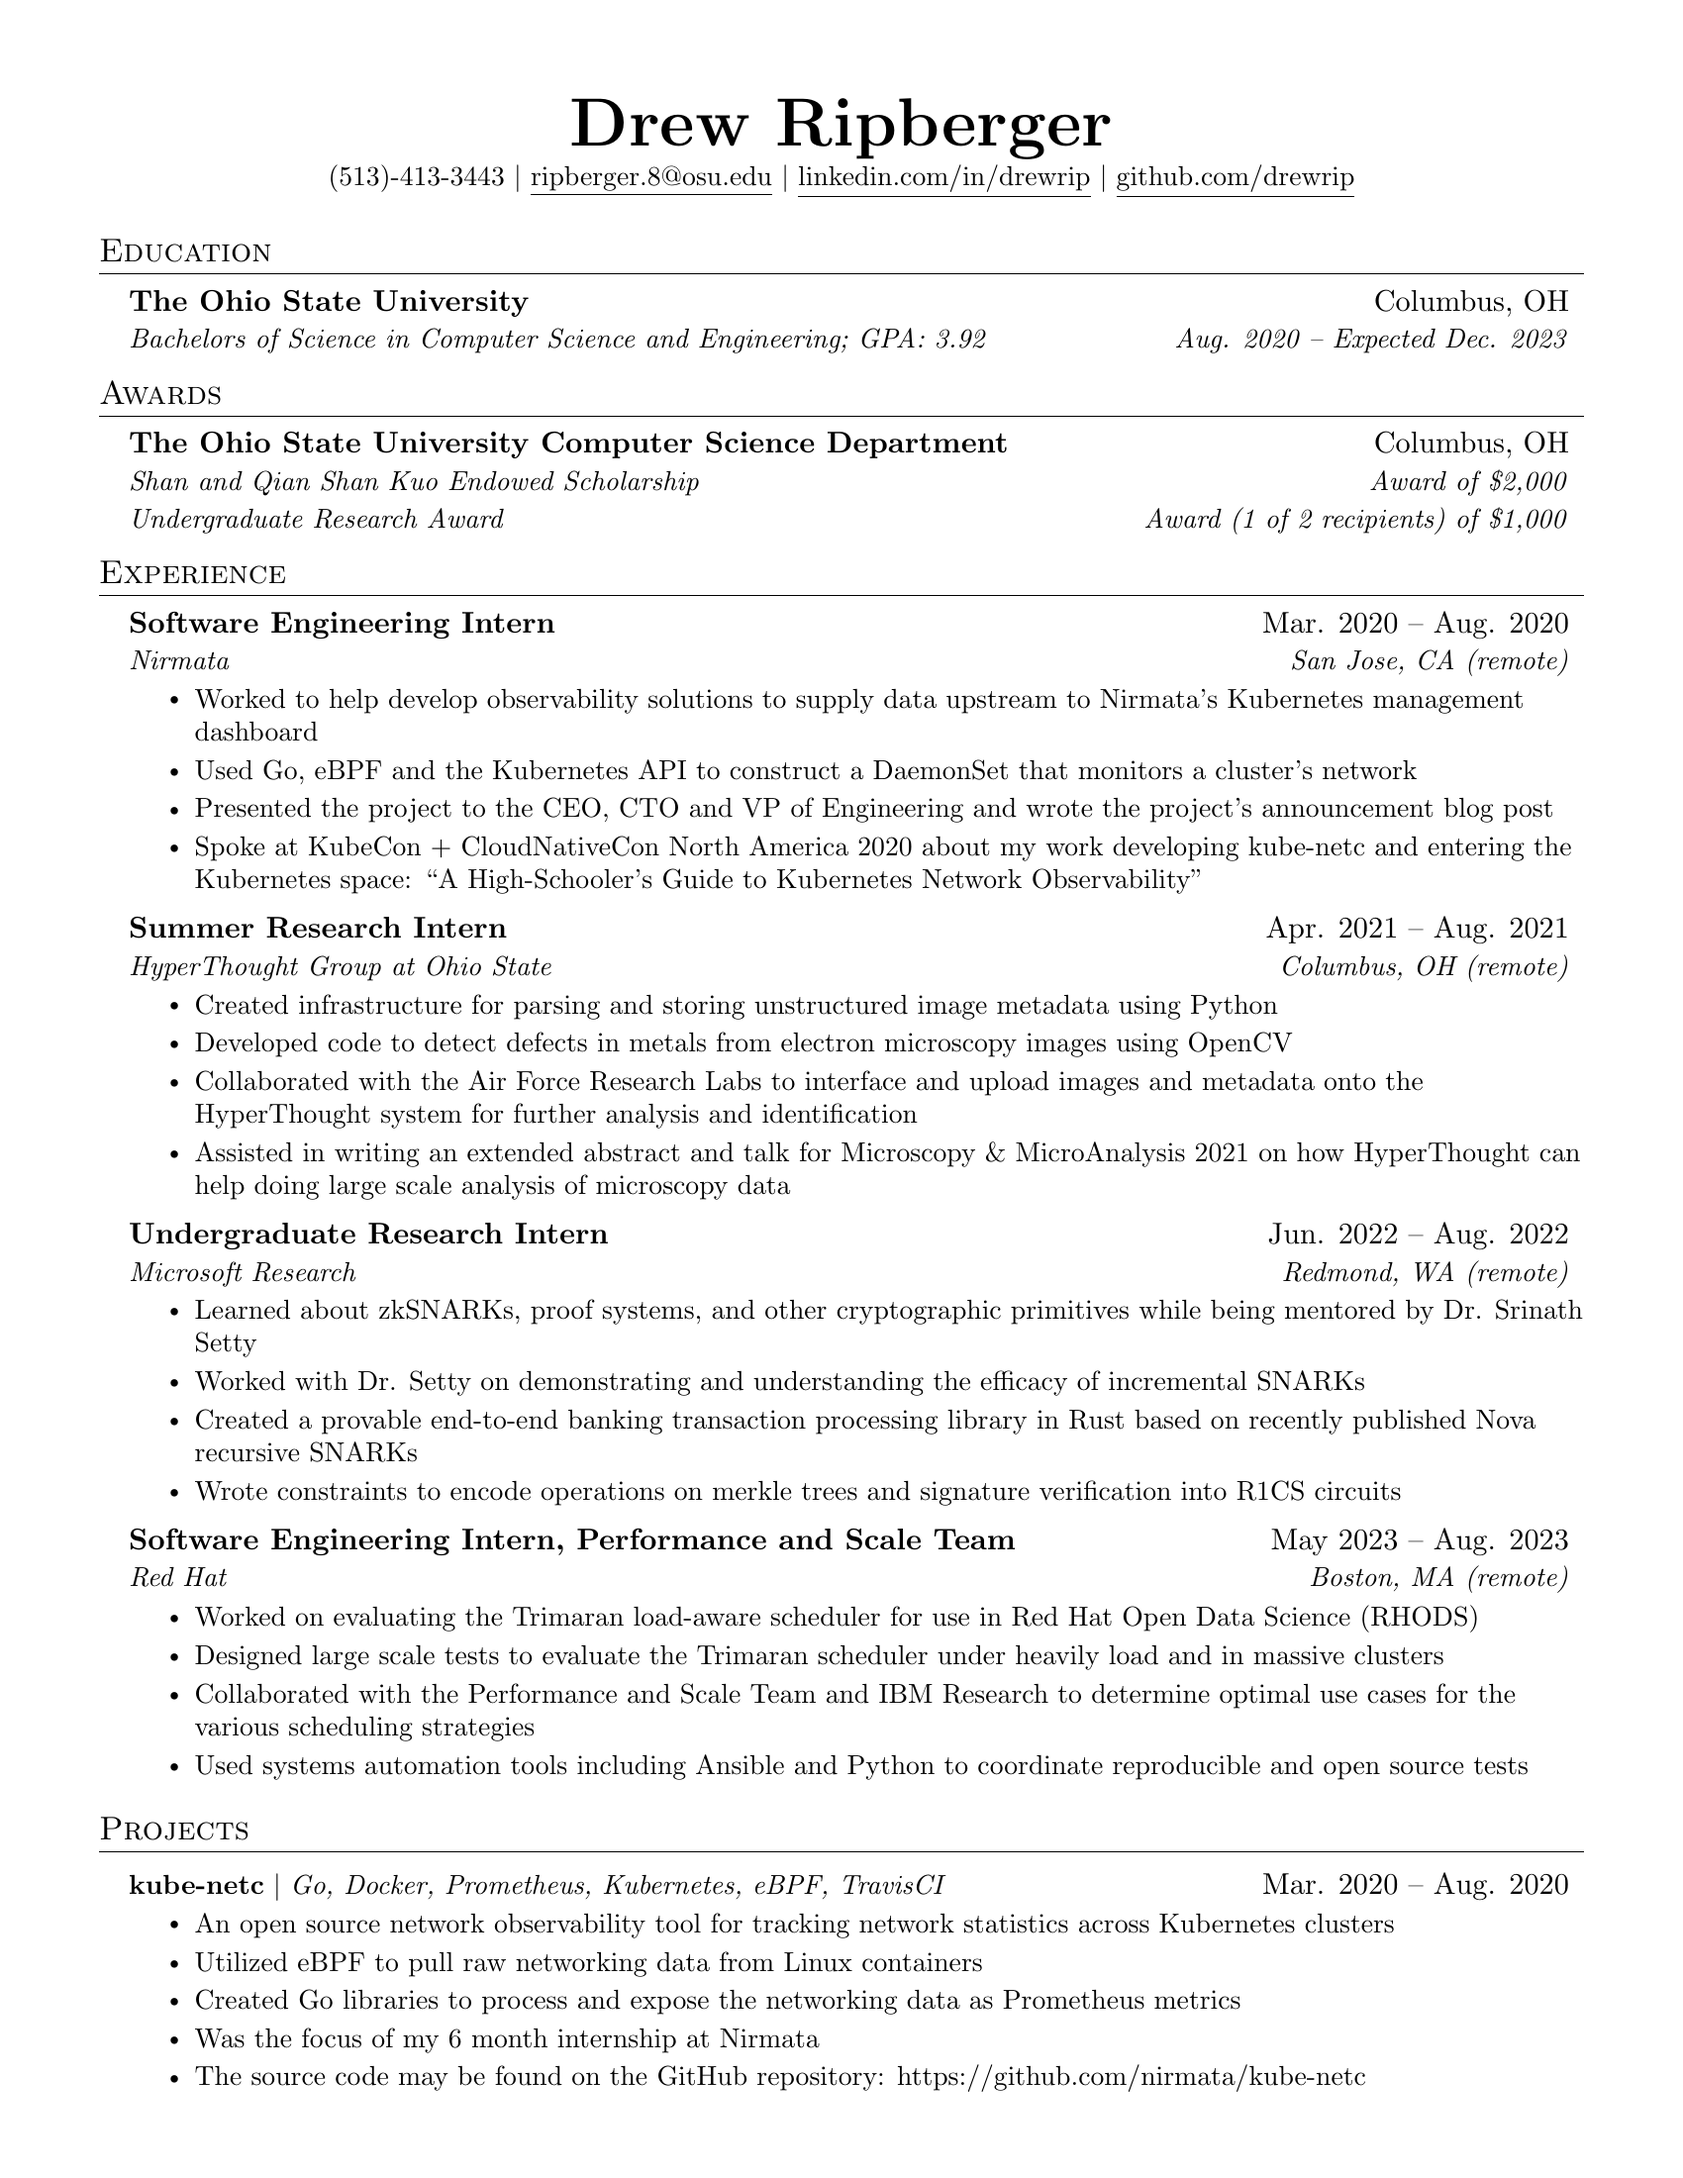
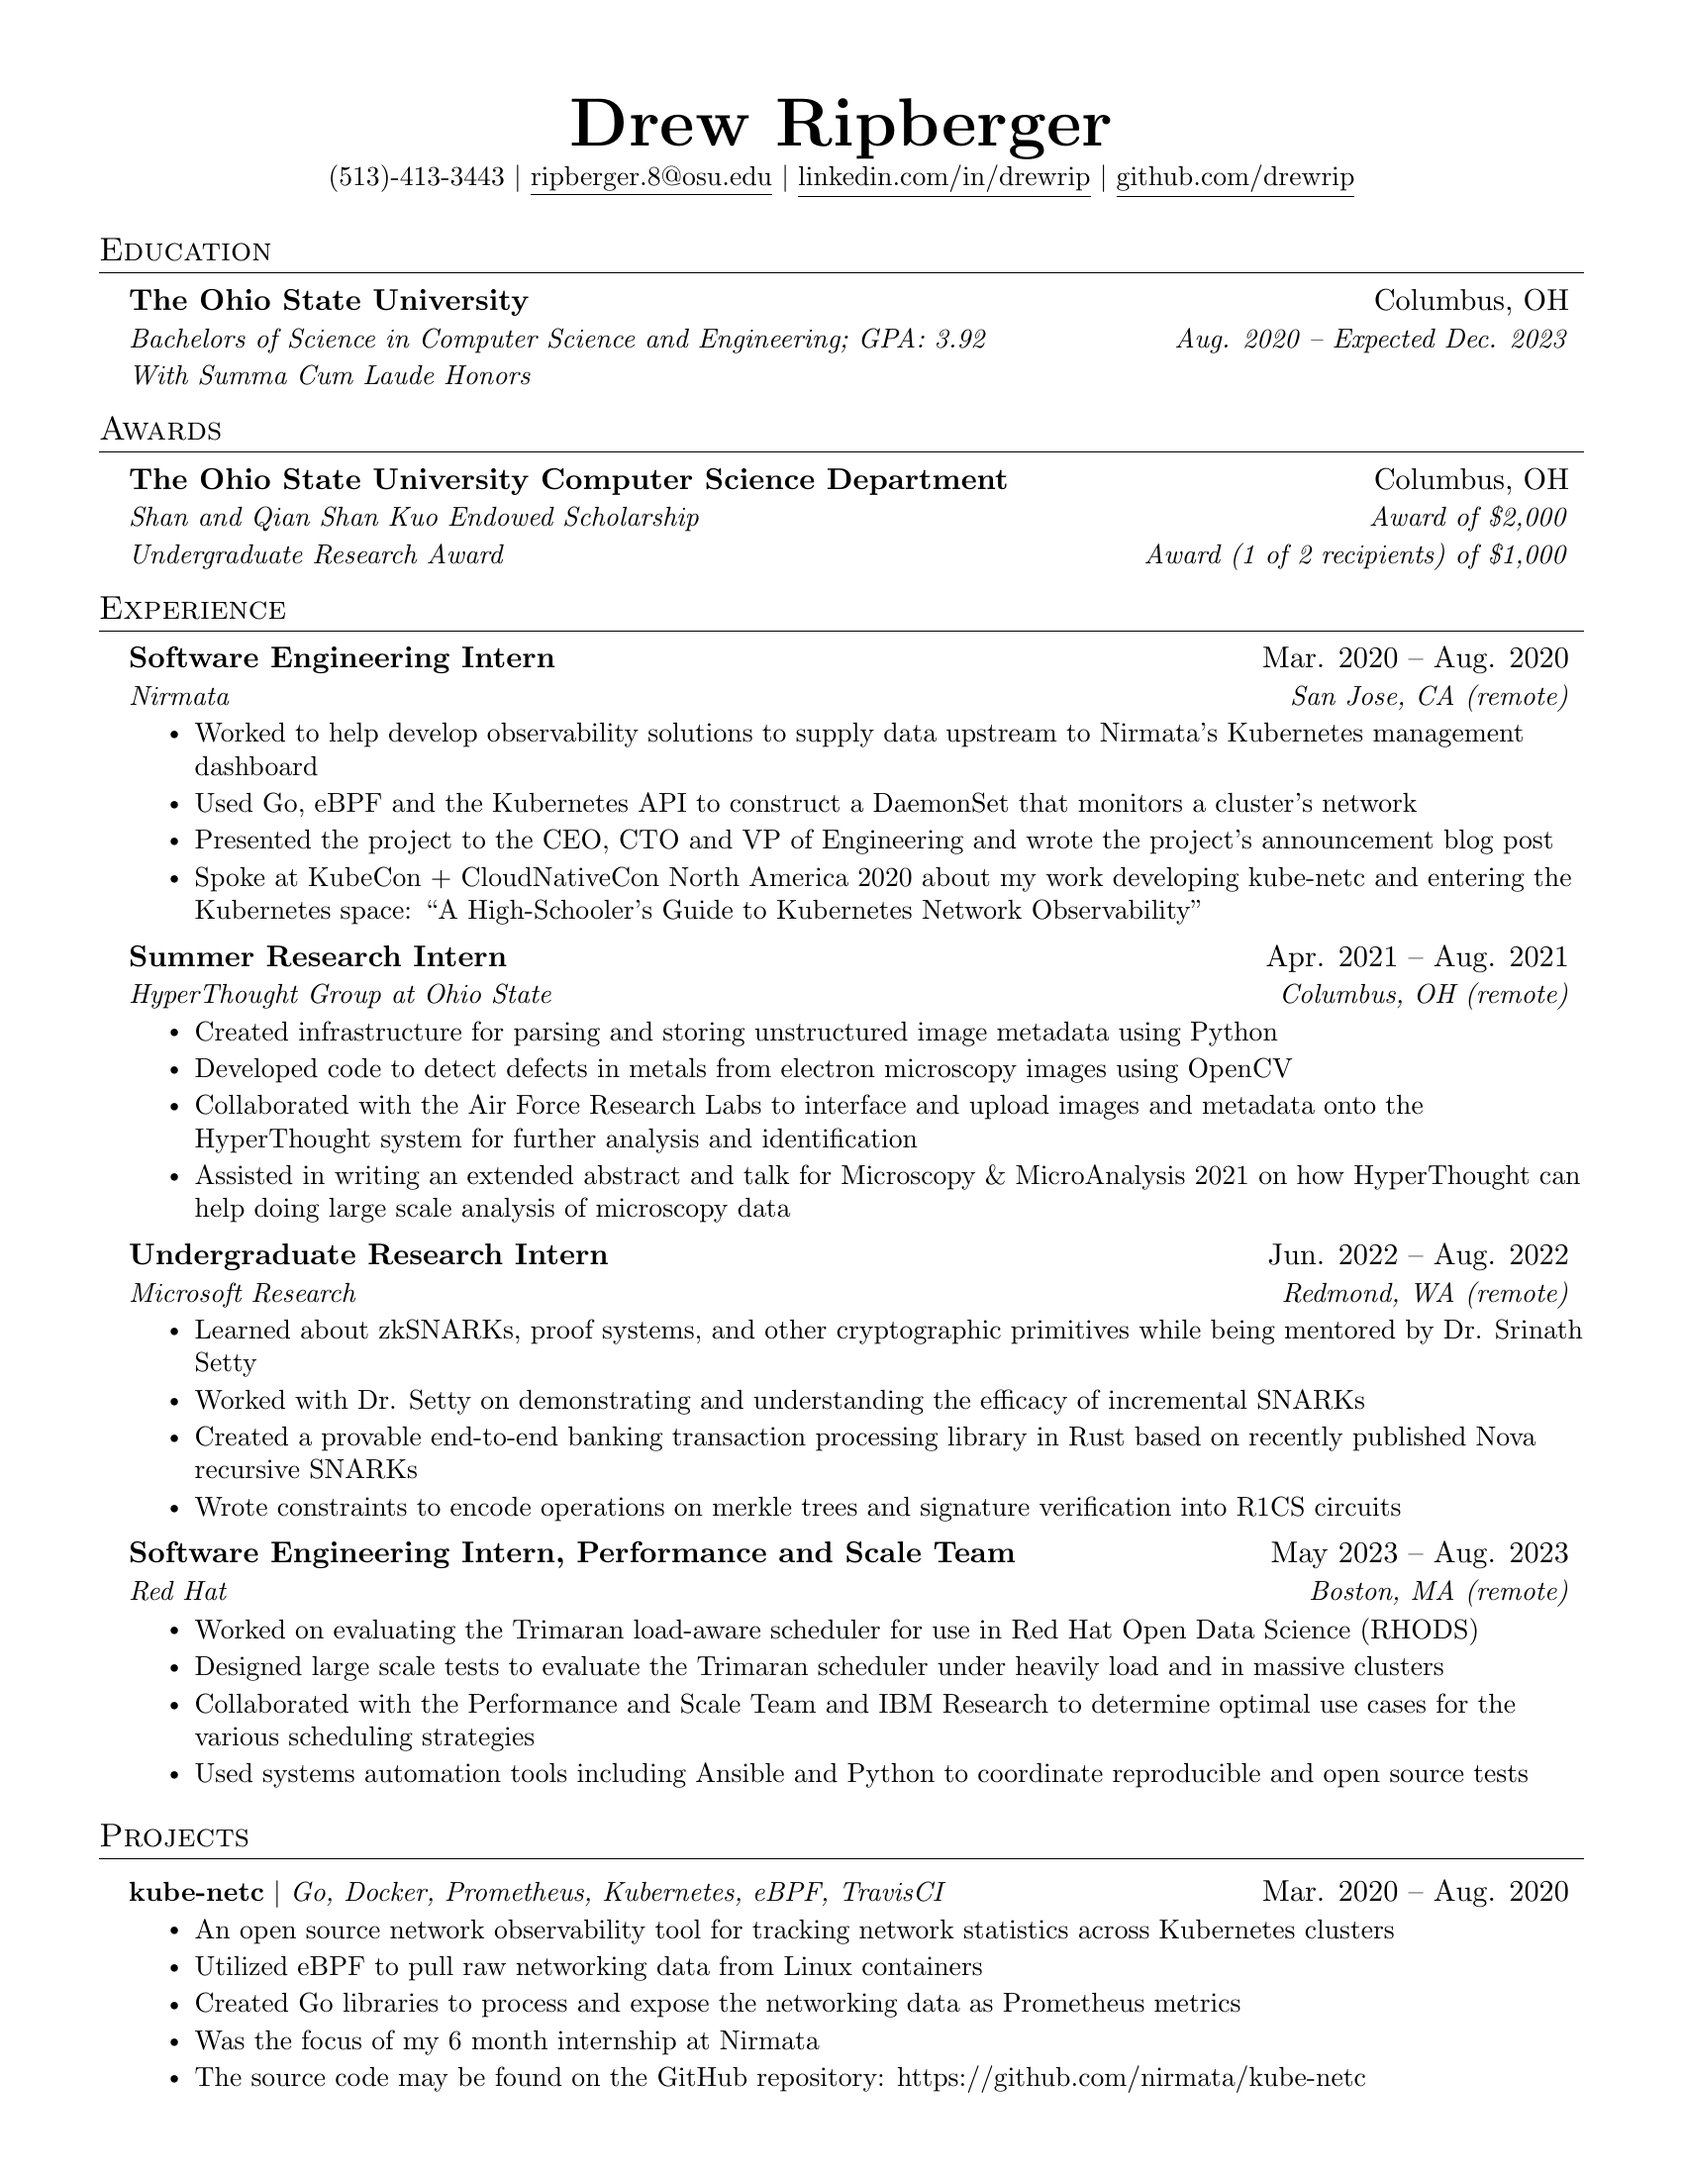
added latin honors

Changed region(s): [[0.0624, 0.1236, 0.9353, 0.9582], [0.2494, 0.1236, 0.3118, 0.1545], [0.6859, 0.2473, 0.7171, 0.2782]]

diff --git a/resume.tex b/resume.tex
@@ -128,9 +128,10 @@
 %-----------EDUCATION-----------
 \section{Education}
   \resumeSubHeadingListStart
-    \resumeSubheading
+    \resumeTwoList
       {The Ohio State University}{Columbus, OH}
       {Bachelors of Science in Computer Science and Engineering; GPA: 3.92}{Aug. 2020 -- Expected Dec. 2023}
+      {With Summa Cum Laude Honors}{}
   \resumeSubHeadingListEnd
 
 %-----------AWARDS-----------
